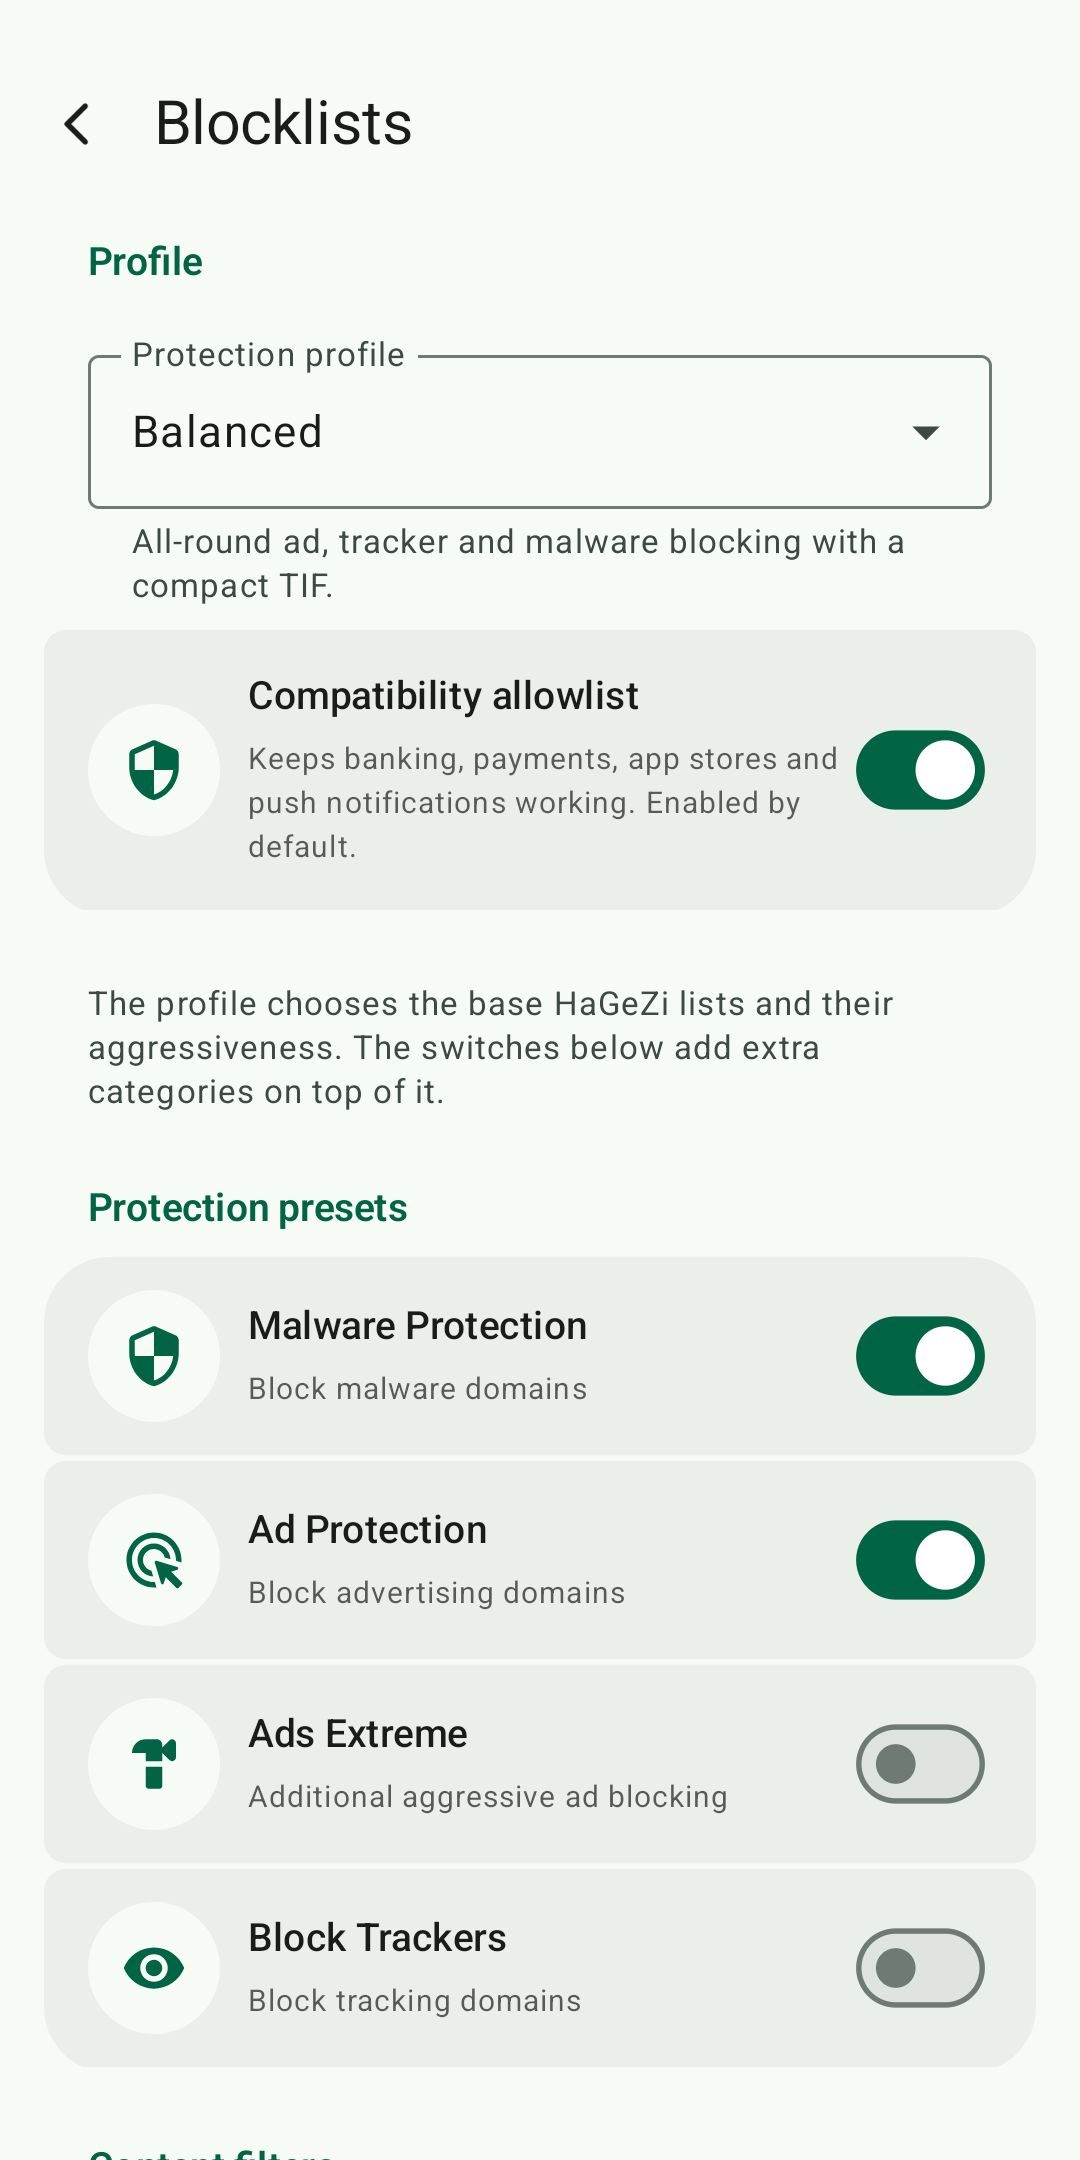
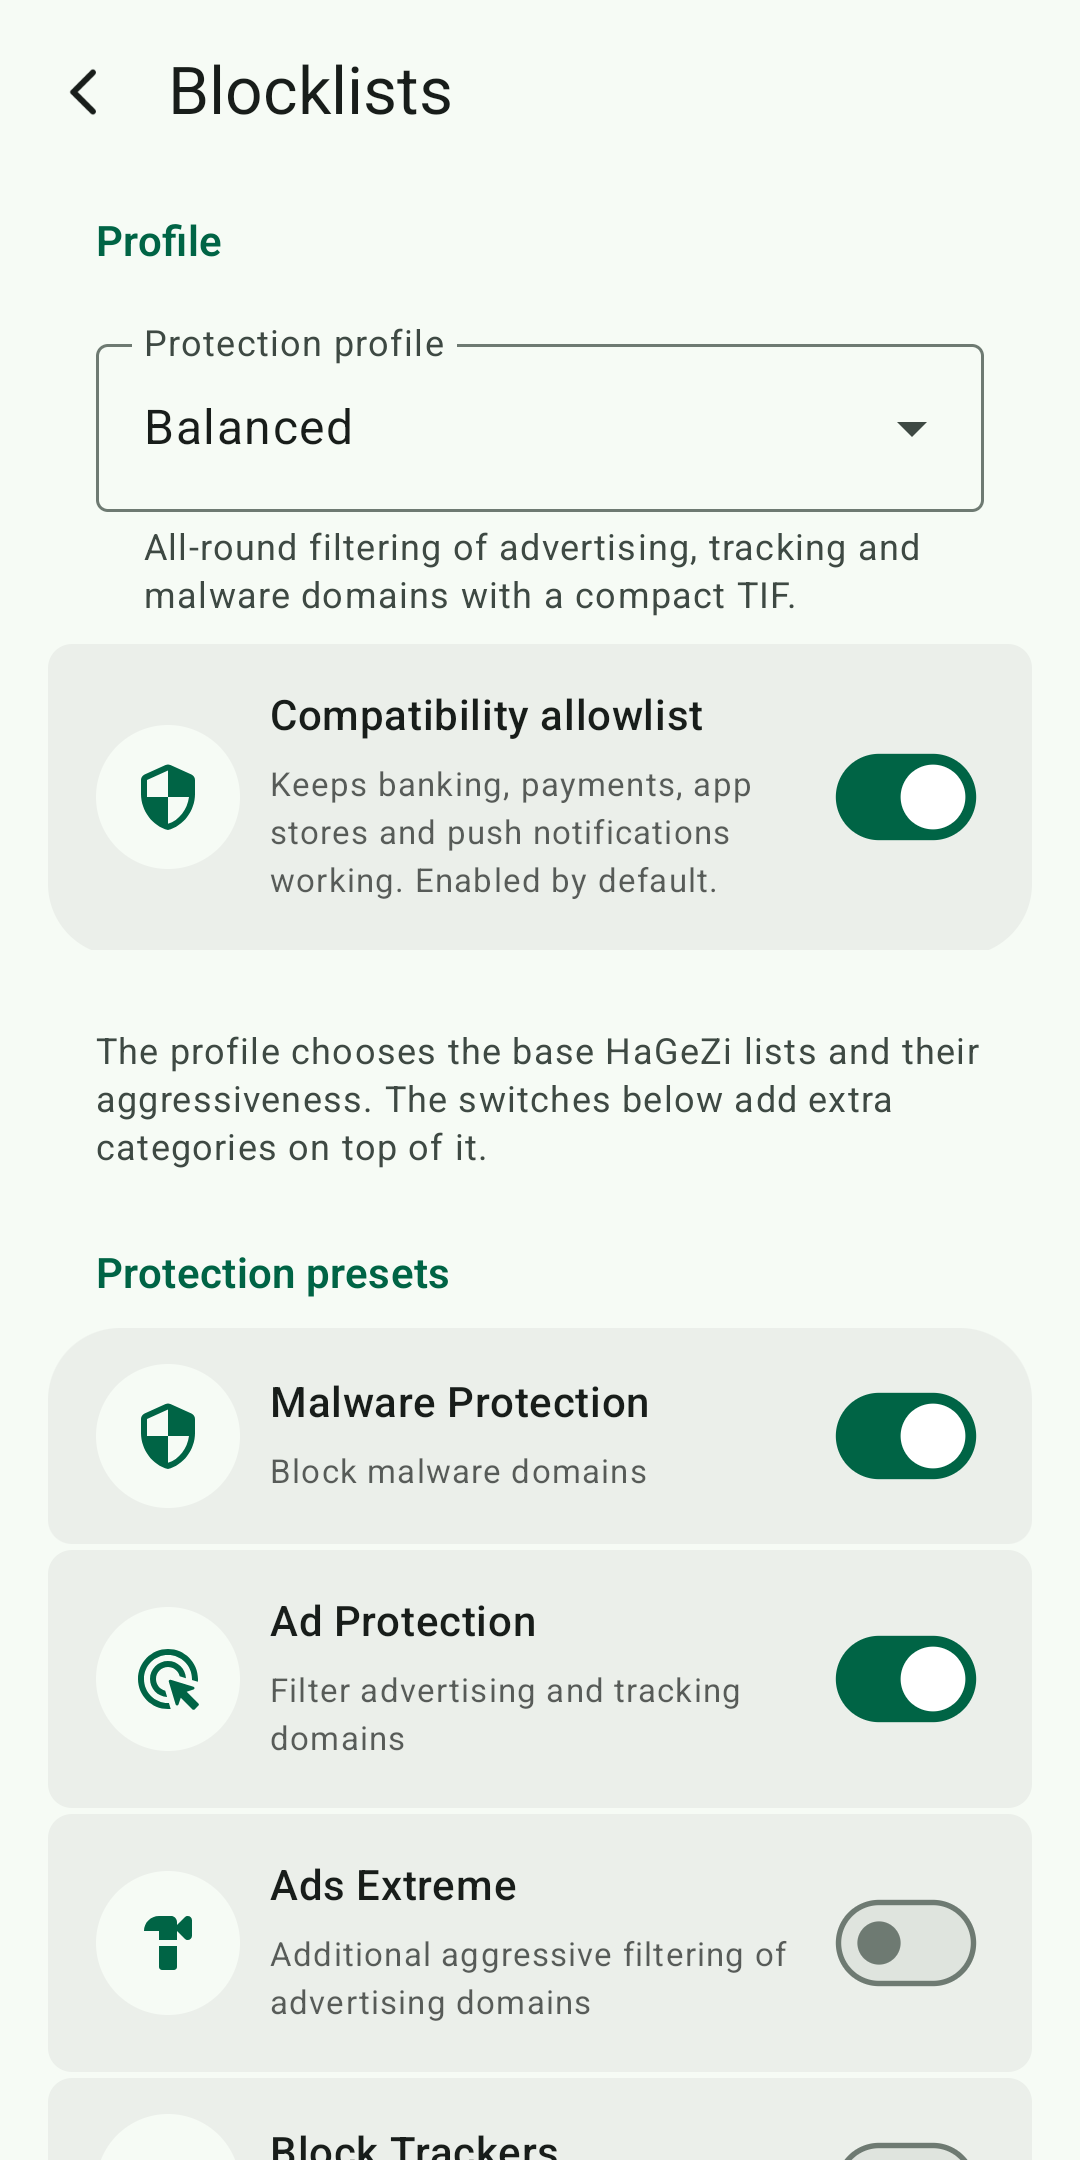
Refresh the store screenshots and the featured image
Capture the home screen, the blocklists screen and the profile chooser with the
DNS firewall wording, and replace the "DNS ad blocking" line of the featured
image with "DNS firewall" in the same font and position.

Align the remaining profile and preset descriptions in English and Italian.

diff --git a/CHANGELOG.md b/CHANGELOG.md
@@ -15,6 +15,8 @@ Entries dated before 2026-11-07 are kept from the project's earlier history.
 - The app screens and the store description now introduce BBDNS as a DNS
   firewall, describing what it protects you from (malware, phishing, tracking)
   rather than advertising alone.
+- The store screenshots and the featured image are rebuilt with the same
+  wording.
 - Nothing changed in how filtering works.
 
 ## 2026-11-11
